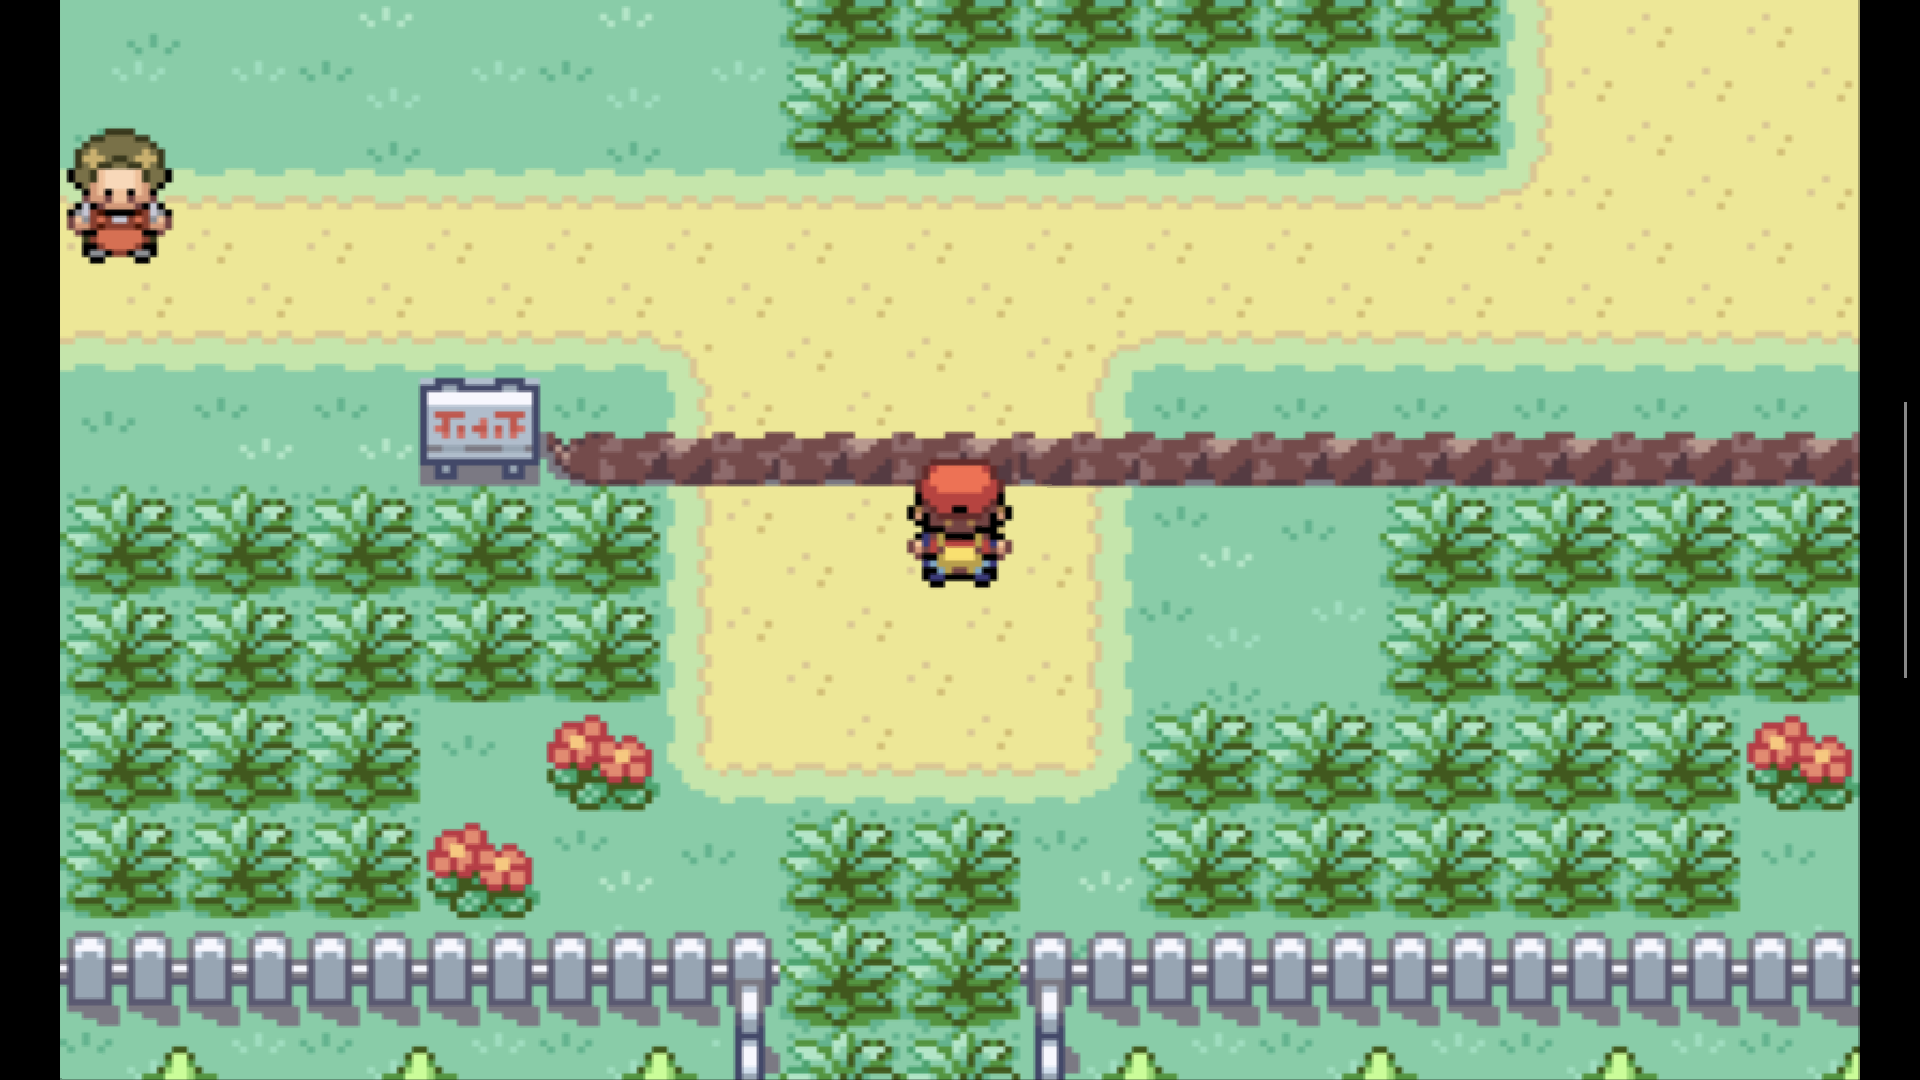
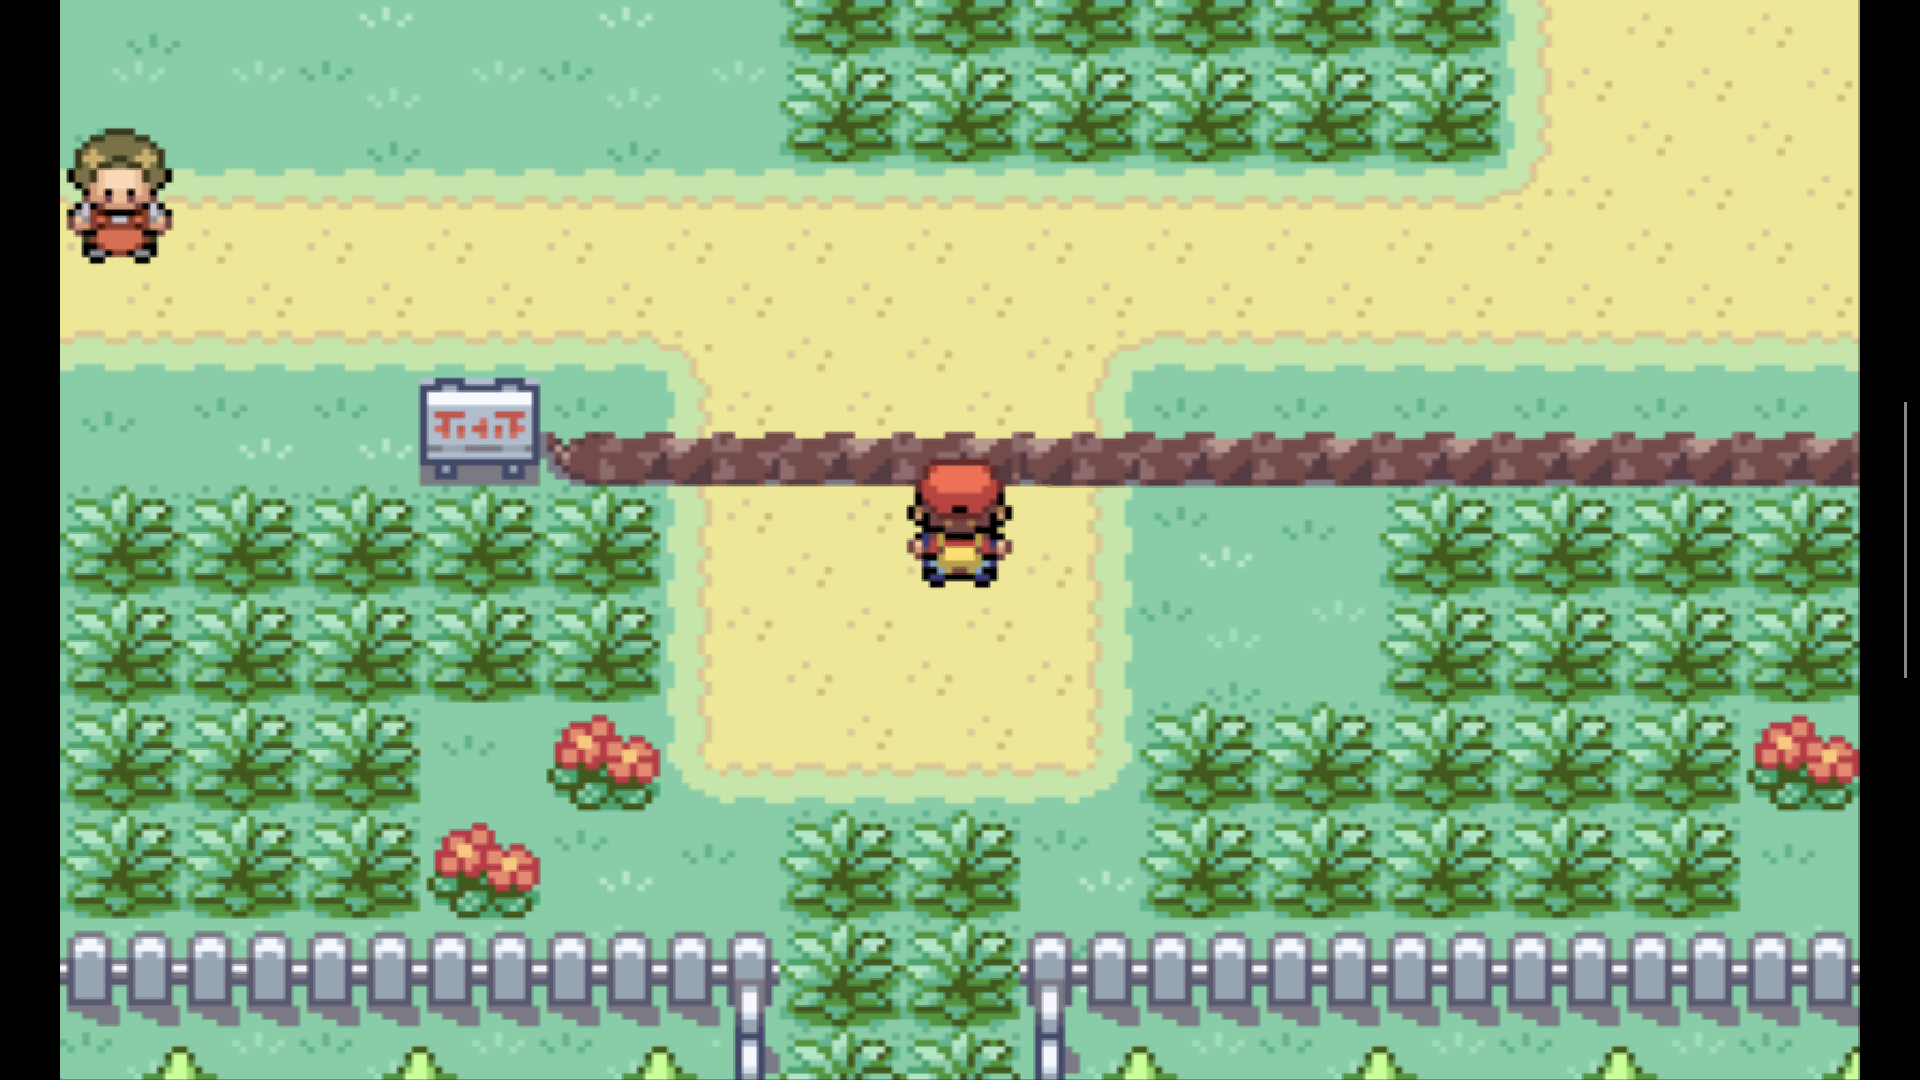
Add FireRed climate qualification and refreshed Thor media

Changed region(s): [[0.9062, 0.6722, 0.9688, 0.7333], [0.2812, 0.6722, 0.3438, 0.7333], [0.2188, 0.7639, 0.2812, 0.825]]

diff --git a/README.md b/README.md
@@ -472,12 +472,16 @@ Let’s Go, Radical Red and Unbound passed the same APK on the Thor. [Download A
 <!-- FLORA CLIMATE START -->
 ### 3D flowers and changing weather
 
-Qualified builds: FRLG+. [Thor results and captures](https://zempoh.github.io/Pokemon-FireRed-3DS-Azahar/climate-3d.html).
+Qualified builds: FRLG+, FireRed. [Thor results and captures](https://zempoh.github.io/Pokemon-FireRed-3DS-Azahar/climate-3d.html).
 
 Set **Visual Climate → Automatic** for calendar seasons and season-weighted randomized weather. Weather is selected every 15 minutes of real time and fades over eight seconds; repeated selections can last longer. Reloading a map does not reroll it. Manual keeps fixed season/weather choices. Native scripted weather takes priority and cosmetic precipitation stays outdoors. This does not change battle weather or gameplay RNG. Winter currently whitens vegetation, not all ground. Asset coverage remains incomplete.
 
 **frlg** — [verified bundle](https://github.com/ZempOh/Pokemon-FireRed-3DS-Azahar/releases/download/graphics-upgrade-2026-11-18/FRLG-Plus-3D-Flora-Climate-v2-2026-11-19.zip)
 
 ![frlg fresh Thor gameplay](docs/screenshots/graphics-gallery/frlg-motion.gif)
+
+**firered** — [verified bundle](https://github.com/ZempOh/Pokemon-FireRed-3DS-Azahar/releases/download/graphics-upgrade-2026-11-18/FireRed-3D-Flora-Climate-v2-2026-11-19.zip)
+
+![firered fresh Thor gameplay](docs/screenshots/graphics-gallery/firered-motion.gif)
 
 <!-- FLORA CLIMATE END -->
